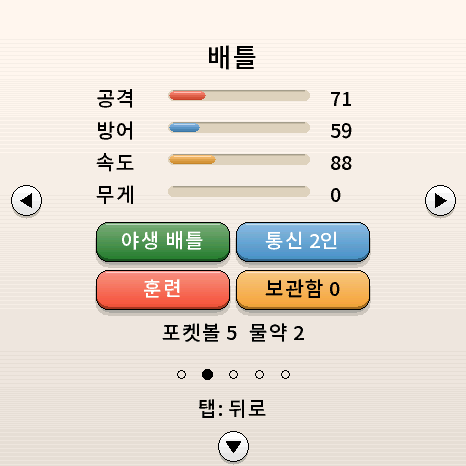
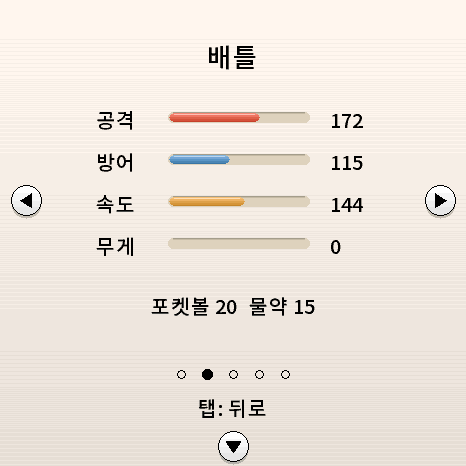
Reorganize menus: settings hub on top arrow, candy tab in box, card stats without action buttons
- New settings screen (top arrow / swipe down): time, sound, screen, WiFi,
  SD update, backup, language, new start; each sub-screen returns to it
- Clock screen keeps only time/date; sound drops brightness; WiFi drops
  update/backup buttons
- Card battle page shows stats only; box gets a candy-bag tab
- Renderer nav checks for every settings path (90 ok)

Claude-Session: https://claude.ai/code/session_01CiwvMdFH9wtdhm1XA9VgMB

diff --git a/claude-version/TamaPoke/test/render/render_main.cpp b/claude-version/TamaPoke/test/render/render_main.cpp
@@ -672,6 +672,7 @@ static void scenes(bool ko, const char *sfx) {
   // sonido y hora
   closeAll(); openClock(); setBigPart("nvs2"); render(); shot("15z_clock_nvs2"); setBigPart(nullptr); render(); shot("15_clock_settings");
   clockDateMode = true; render(); shot("15b_clock_date"); clockDateMode = false;
+  closeAll(); openSettings(); setBigPart("nvs2"); render(); shot("14_settings"); setBigPart(nullptr);  // ko11.26
   closeAll(); openSound(); render(); shot("16_sound");
   { bool v0 = vibEnabled(), a0 = audioEnabled();  // ko11.25: [진동 켬/끔] junto a [소리]
     soundTap(SND_BTN_X1 + 70, 96); render(); shot("16g_sound_vib_off");
@@ -744,14 +745,50 @@ static void navChecks() {
   navCheck("entrenamiento -> tongsin -> [<]", xScreen == XS_NONE && trainMenuOpen);
   closeAll(); cardOpen = true; cardPage = 0; openLinkMenu(); linkMenuTap(LX, LY);
   navCheck("ficha -> tongsin -> [<]", xScreen == XS_NONE && cardOpen);
-  closeAll(); openClock(); openNet(); netTap(LX, LY);
-  navCheck("hora -> red -> [<]", xScreen == XS_NONE && clockOpen);
-  closeAll(); openClock(); openSound(); soundTap(LX, LY);
-  navCheck("hora -> sonido -> [<]", xScreen == XS_NONE && clockOpen);
-  closeAll(); openClock(); openSound(); openBgmPick(); bgmPickTap(LX, LY);
+  // ko11.26: menu de ajustes (flecha de arriba); cada boton y su [<]
+  const int SX[2] = { 147, 319 };
+  auto setBtn = [&](int i) { settingsTap(SX[i % 2], 98 + (i / 2) * 68 + 28); };
+  closeAll(); tick(3000); onTap(233, 20);
+  navCheck("principal: flecha de arriba = ajustes", xScreen == XS_SET && !clockOpen);
+  closeAll(); onSwipeV(1);
+  navCheck("principal: deslizar abajo = ajustes", xScreen == XS_SET);
+  closeAll(); openSettings(); setBtn(0);
+  navCheck("ajustes -> [시간] abre la hora", clockOpen && xScreen == XS_NONE);
+  clockTap(LX, LY);
+  navCheck("ajustes -> hora -> [<]", !clockOpen && xScreen == XS_SET);
+  setBtn(0); clockTap(233, 316 + 20);
+  navCheck("ajustes -> hora -> [OK]", !clockOpen && xScreen == XS_SET);
+  closeAll(); openSettings(); setBtn(1); bool snd = xScreen == XS_VOL; soundTap(LX, LY);
+  navCheck("ajustes -> sonido -> [<]", snd && xScreen == XS_SET);
+  closeAll(); openSettings(); setBtn(1); openBgmPick(); bgmPickTap(LX, LY);
   navCheck("sonido -> fondos -> [<]", xScreen == XS_VOL);
-  closeAll(); openClock(); openReset(); resetTap(LX, LY);
-  navCheck("hora -> reinicio -> [<]", xScreen == XS_NONE && clockOpen);
+  soundTap(LX, LY);
+  navCheck("... -> sonido -> [<] = ajustes", xScreen == XS_SET);
+  closeAll(); openSettings(); setBtn(2); bool br = xScreen == XS_BRIGHT; brightTap(LX, LY);
+  navCheck("ajustes -> brillo -> [<]", br && xScreen == XS_SET);
+  closeAll(); openSettings(); setBtn(3); bool nt = xScreen == XS_NET; netTap(LX, LY);
+  navCheck("ajustes -> red -> [<]", nt && xScreen == XS_SET);
+  closeAll(); openSettings(); setBtn(4); bool up = xScreen == XS_UPD; updateTap(LX, LY);
+  navCheck("ajustes -> SD update -> [<]", up && xScreen == XS_SET);
+  closeAll(); openSettings(); setBtn(5); bool bk = xScreen == XS_BAK; backupTap(LX, LY);
+  navCheck("ajustes -> copias -> [<]", bk && xScreen == XS_SET);
+  { Lang l0 = gLang; closeAll(); openSettings(); setBtn(6);
+    navCheck("ajustes -> [언어] cambia el idioma", gLang != l0 && xScreen == XS_SET);
+    while (gLang != l0) setBtn(6); }
+  closeAll(); openSettings(); setBtn(7); bool rs = xScreen == XS_RESET; resetTap(LX, LY);
+  navCheck("ajustes -> reinicio -> [<]", rs && xScreen == XS_SET);
+  settingsTap(LX, LY);
+  navCheck("ajustes -> [<] = principal", xScreen == XS_NONE && !clockOpen);
+  // ko11.26: la caja tiene la pestana de caramelos
+  closeAll(); openBox(); boxTap(342 + 21, 48 + 19);
+  navCheck("caja -> [사탕] abre la bolsa", xScreen == XS_CANDY);
+  candyBagTap(LX, LY);
+  navCheck("caja -> caramelos -> [<] = caja", xScreen == XS_BOX);
+  closeAll(); openBox(); boxTap(342 + 21, 48 + 19); onSwipeV(-1);
+  navCheck("caja -> caramelos -> deslizar = caja", xScreen == XS_BOX);
+  // ko11.26: la ficha de combate ya no tiene botones (tocar = cerrar)
+  closeAll(); cardOpen = true; cardPage = 1; onTap(150, 240);
+  navCheck("ficha combate: sin botones", !cardOpen && xScreen == XS_NONE && !trainMenuOpen);
   closeAll(); cardOpen = true; cardPage = 0; onTap(LX, LY);
   navCheck("ficha (1a pagina) -> [<]", !cardOpen);
   closeAll(); tick(3000);
@@ -974,10 +1011,6 @@ int main(int argc, char **argv) {
   pet.fullness = 72; pet.joy = 88; pet.energy = 54; pet.hygiene = 23;
   pet.balls = 5; pet.potions = 2;
   ensureMon();
-  // WIFI_TAP_CHECK: tocar la pildora WiFi del reloj abre la red
-  openClock(); onTap(233, 311);
-  printf("  wifi tap: clockOpen=%d xScreen=%d (XS_NET=%d)\n", clockOpen, xScreen, XS_NET);
-  xScreen = XS_NONE;
   navChecks();
   storyShots();
   scenes(true, "");

diff --git a/claude-version/TamaPoke/i18n_ext.cpp b/claude-version/TamaPoke/i18n_ext.cpp
@@ -129,6 +129,7 @@ static const char *const XS[2][X_COUNT] = {
     "PERFECT", "Perfect raising (8/8 medals)",
     "Charge limit", "100%", "~90% (longer life)", "Plugged in a lot? ~90% keeps the battery healthier",
     "Vibe ON", "Vibe OFF",
+    "SETTINGS", "TIME & DATE", "SOUND & VIBE", "SCREEN & BATTERY", "LANGUAGE %s >", "CANDY",
     "{1} left happily!", "Poke Ball +1", "Potion +1", "Shard +1", "EXP +{2}",
     "FAREWELL", "Final form", "3 days together", "Evolve", "%ud %uh", "%uh left to 3 days", "Ready! Farewell button on the main screen", "Evolve to say goodbye",
     "MEADOW", "BEACH", "FOREST", "VOLCANO", "MOUNTAIN", "SNOWFIELD", "POWER PLANT", "DOJO",
@@ -161,7 +162,7 @@ static const char *const XS[2][X_COUNT] = {
     "훈련", "훈련 선택", "공격: 연타 + 필살기", "방어: 타이밍 맞춰 막기", "속도: 순서대로 터치",
     "공놀이 (기분)", "최고 %u", "볼이 초록 칸에 오면 터치!", "1부터 순서대로 터치!",
     "방어 %u점", "성공 %u/15", "방어 +%u", "속도 +%u", "좋아!", "놓쳤다",
-    "소리/화면 설정", "배경음", "포켓몬 목소리", "시스템음", "소리 켜짐", "소리 꺼짐", "완료",
+    "소리/진동 설정", "배경음", "포켓몬 목소리", "시스템음", "소리 켜짐", "소리 꺼짐", "완료",
     "진화형", "흔함", "희귀", "전설", "HP %u  공 %u  방 %u  속 %u", "진화: %s (Lv.%u)",
     "최종 진화형", "처음 발견 %02u/%02u", "만남 %u  포획 %u", "키운 적 있어요", "아직 발견하지 못했어요",
     "동료가 되고 싶어 해요!", "SD 업데이트", "SD카드로 업데이트", "SD카드에 update.bin이 없어요",
@@ -257,6 +258,7 @@ static const char *const XS[2][X_COUNT] = {
     "완벽 육성", "완벽 육성 (메달 8/8)",
     "충전 한도", "100%", "약 90% (수명 연장)", "자주 꽂아 두면 90%가 배터리 수명에 좋아요",
     "진동 켜짐", "진동 꺼짐",
+    "설정", "시간/날짜", "소리/진동", "화면/배터리", "언어 %s >", "사탕",
     "{1}{이} 고마워하며 떠났어요!", "포켓볼 +1", "물약 +1", "조각 +1", "경험치 +{2}",
     "이별 조건", "최종 진화형", "함께한 시간 3일", "진화 필요", "%u일 %u시간", "3일까지 %u시간 남음", "모두 충족! 기본 화면에 이별 버튼", "진화하면 이별할 수 있어요",
     "초원", "바닷가", "숲", "화산", "산", "설원", "발전소", "도장",

diff --git a/claude-version/TamaPoke/i18n_ext.h b/claude-version/TamaPoke/i18n_ext.h
@@ -126,7 +126,8 @@ enum XId : uint16_t {  // ko10.6: pasaron de 255
   X_FAME_BOTH, X_FAME_COUNT_FMT, X_FAME_PROMOTE,
   X_PERFECT, X_PERFECT_L,
   X_CHG_LABEL, X_CHG_FULL, X_CHG_SAFE, X_CHG_NOTE,
-  X_VIB_ON, X_VIB_OFF,  // ko11.25: vibracion  // ko11.23.3: limite de carga  // ko11.21  // ko11.20: equipo  // ko11.19: combate automatico
+  X_VIB_ON, X_VIB_OFF,
+  X_SET_TITLE, X_SET_TIME, X_SET_SOUND, X_SET_SCREEN, X_SET_LANG_FMT, X_CANDY_TAB,  // ko11.26: menu de ajustes  // ko11.25: vibracion  // ko11.23.3: limite de carga  // ko11.21  // ko11.20: equipo  // ko11.19: combate automatico
   X_RG_THANKS, X_RG_BALL, X_RG_POTION, X_RG_SHARD, X_RG_EXP,  // ko11.19: regalo al soltar
   X_FW_TITLE, X_FW_FINAL, X_FW_TIME, X_FW_EVO_NEED, X_FW_TIME_FMT, X_FW_LEFT_FMT, X_FW_READY, X_FW_WAIT,  // ko11.18: despedida
   X_REG_0, X_REG_1, X_REG_2, X_REG_3, X_REG_4, X_REG_5, X_REG_6, X_REG_7,

diff --git a/claude-version/확인_대기.md b/claude-version/확인_대기.md
@@ -371,6 +371,14 @@
   나와 상대 모두 같은 규칙 (상대는 체력 30% 미만일 때 25%만 방어). 통신 형식 4→5: **통신 대전·교환은 양쪽 모두 ko11.8**
 - 정리할 것: 훈련 결과 화면의 측정 표시(그리기/멈춤) — 렉이 다시 안 생기면 뺄 예정
 
+## 다음 펌 준비 (아직 빌드 안 함)
+- **메뉴 정리 (설정 화면 새로)**: 메인 위쪽 화살표/아래로 밀기 = **설정** (예전: 시간 설정)
+  - 설정 버튼 8개: 시간/날짜 · 소리/진동 · 화면/배터리 · WiFi · SD 업데이트 · 세이브 백업 · 언어 · 새로 시작 (+ 펌 버전)
+  - 각 화면 ◀ = 설정으로 돌아옴 (시간은 OK도). 설정 ◀ = 메인
+  - 시간 화면: 시간·날짜만. 소리 화면: 밝기 버튼 뺌 (제목 "소리/진동 설정"). WiFi 화면: SD 업데이트·백업 버튼 뺌
+  - 카드 능력치 쪽: 야생/통신/훈련/보관함 버튼 없앰 (배틀 = 하단 몬스터볼, 보관함 = ▶)
+  - 보관함 탭 맨 오른쪽에 **사탕 탭** → 사탕 가방 (◀ = 보관함으로)
+
 ## 보류 계획: 통신 선물 (사용자가 두 번째 다마포케를 만들면 그때 작업)
 - 두 대를 통신(ESP-NOW, 기존 link)으로 연결해서
   - 사탕·볼·물약·만능 사탕을 서로 선물 (하루 횟수 제한 검토)
